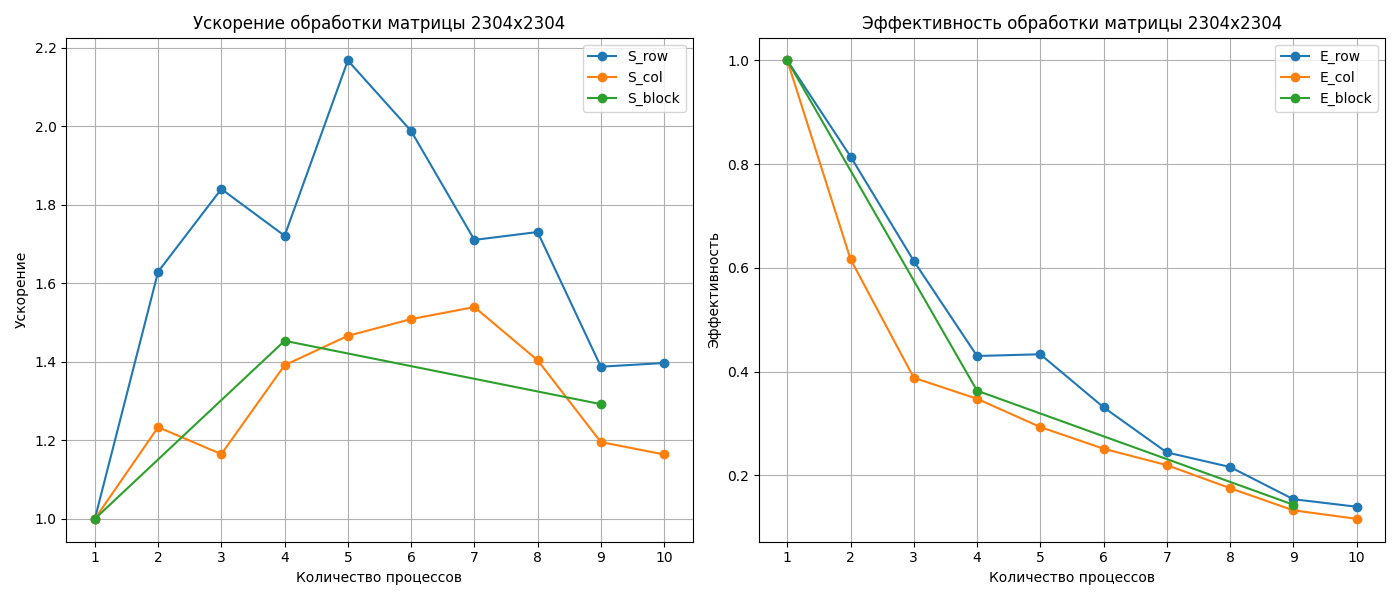
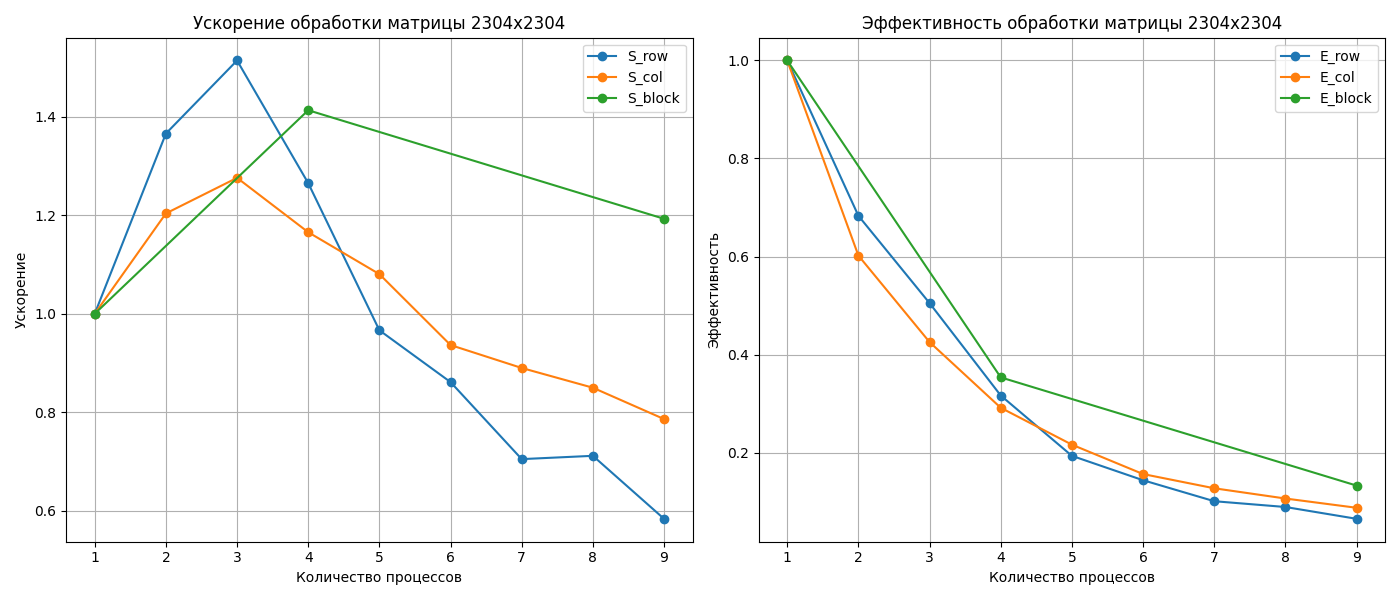
final benchmarks for report

diff --git a/utils/matmul_split_metrics.py b/utils/matmul_split_metrics.py
@@ -9,9 +9,8 @@ ROOT_DIR = os.path.abspath('.')
 
 def run_mpi_program(num_processes, matrix_size, num_runs=100):
     result = {"row_split": [], "col_split": [], "block_split": []}
-    
     try:
-        for _ in tqdm.trange(num_runs):
+        for _ in tqdm.trange(num_runs, desc=f'[Size={matrix_size} | Process={num_processes}]'):
             for prog_name in ["matmul_row.o", "matmul_col.o", "matmul_chess.o"]:
                 if prog_name == 'matmul_chess.o' and num_processes not in (1, 4, 9):
                     continue
@@ -67,7 +66,7 @@ def plot_matrix_performance(data, save_path):
         e_col_list.append(E_col)
 
         S_block, E_block = sublist[4]
-        if S_block != 0 and E_block != 0:
+        if S_block != '-' and E_block != '-':
             s_block_list.append(S_block)
             e_block_list.append(E_block)
     
@@ -97,8 +96,8 @@ def plot_matrix_performance(data, save_path):
 
 def main() -> None:
     matrix_sizes = [576, 2304, 3636]
-    num_processes = list(range(1, 10+1))
-    NUM_RUNS = 2
+    num_processes = list(range(1, 10))
+    NUM_RUNS = 100
 
     os.makedirs(f'{ROOT_DIR}/src/task1/task_1_benchmark', exist_ok=True)
     for size in matrix_sizes:
@@ -131,6 +130,9 @@ def main() -> None:
                 S_col, E_col = get_S_E(avg_time_col_1, result['col_split'], processes)
                 S_block, E_block = get_S_E(avg_time_block_1, result['block_split'], processes)
             
+            S_block = '-' if S_block == 0 else S_block
+            E_block = '-' if E_block == 0 else E_block
+
             data.append([size, processes, (S_row, E_row), (S_col, E_col), (S_block, E_block)])
 
             table.add_row([

diff --git a/src/task1/report_task_1.md b/src/task1/report_task_1.md
@@ -19,7 +19,7 @@
 
 Количество процессов:
 
-- (1-10): для строкового и столбцового разбиения
+- (1-9): для строкового и столбцового разбиения
 - (1, 4, 9): для блочного разбиения
 
 ## Основные метрики параллельной реализации
@@ -44,9 +44,15 @@
 
 |  Размер матрицы **A**  |  Количество процессов **P**  |  Разбиение по строкам (S, E)  |  Разбиение по столбцам (S, E)  |  Разбиение на блоки (S, E)  |
 | :---: | :---: | :---: | :---: | :---: |
-|  576x576  |  1  |  ('-', '-')  |  ('-', '-')  |  ('-', '-')  |
-|  576x576  |  4  |  (1.3719, 0.343)  |  (0.0728, 0.0182)  |  (0.3145, 0.0786)  |
-|  576x576  |  9  |  (0.0236, 0.0026)  |  (0.0255, 0.0028)  |  (0.104, 0.0116)  |
+|  576x576  |  1  |  (1, 1)  |  (1, 1)  |  (1, 1)  |
+|  576x576  |  2  |  (0.2438, 0.1219)  |  (0.2699, 0.1349)  |  ('-', '-')  |
+|  576x576  |  3  |  (0.0978, 0.0326)  |  (0.1018, 0.0339)  |  ('-', '-')  |
+|  576x576  |  4  |  (0.0625, 0.0156)  |  (0.0644, 0.0161)  |  (0.1468, 0.0367)  |
+|  576x576  |  5  |  (0.0462, 0.0092)  |  (0.0466, 0.0093)  |  ('-', '-')  |
+|  576x576  |  6  |  (0.0388, 0.0065)  |  (0.0453, 0.0076)  |  ('-', '-')  |
+|  576x576  |  7  |  (0.0322, 0.0046)  |  (0.0333, 0.0048)  |  ('-', '-')  |
+|  576x576  |  8  |  (0.0327, 0.0041)  |  (0.0325, 0.0041)  |  ('-', '-')  |
+|  576x576  |  9  |  (0.0295, 0.0033)  |  (0.0374, 0.0042)  |  (0.072, 0.008)  |
 
 ![](task_1_benchmark/size=576/plot.png)
 
@@ -54,9 +60,15 @@
 
 |  Размер матрицы **A**  |  Количество процессов **P**  |  Разбиение по строкам (S, E)  |  Разбиение по столбцам (S, E)  |  Разбиение на блоки (S, E)  |
 | :---: | :---: | :---: | :---: | :---: |
-|  2304x2304  |  1  |  ('-', '-')  |  ('-', '-')  |  ('-', '-')  |
-|  2304x2304  |  4  |  (1.5672, 0.3918)  |  (0.8822, 0.2205)  |  (1.5056, 0.3764)  |
-|  2304x2304  |  9  |  (1.3228, 0.147)  |  (1.4149, 0.1572)  |  (0.7033, 0.0781)  |
+|  2304x2304  |  1  |  (1, 1)  |  (1, 1)  |  (1, 1)  |
+|  2304x2304  |  2  |  (1.3662, 0.6831)  |  (1.2039, 0.6019)  |  ('-', '-')  |
+|  2304x2304  |  3  |  (1.5147, 0.5049)  |  (1.2762, 0.4254)  |  ('-', '-')  |
+|  2304x2304  |  4  |  (1.2654, 0.3164)  |  (1.1657, 0.2914)  |  (1.4136, 0.3534)  |
+|  2304x2304  |  5  |  (0.9664, 0.1933)  |  (1.0805, 0.2161)  |  ('-', '-')  |
+|  2304x2304  |  6  |  (0.8611, 0.1435)  |  (0.9364, 0.1561)  |  ('-', '-')  |
+|  2304x2304  |  7  |  (0.7046, 0.1007)  |  (0.8898, 0.1271)  |  ('-', '-')  |
+|  2304x2304  |  8  |  (0.7113, 0.0889)  |  (0.8497, 0.1062)  |  ('-', '-')  |
+|  2304x2304  |  9  |  (0.5833, 0.0648)  |  (0.786, 0.0873)  |  (1.193, 0.1326)  |
 
 ![](task_1_benchmark/size=2304/plot.png)
 
@@ -64,9 +76,15 @@
 
 |  Размер матрицы **A**  |  Количество процессов **P**  |  Разбиение по строкам (S, E)  |  Разбиение по столбцам (S, E)  |  Разбиение на блоки (S, E)  |
 | :---: | :---: | :---: | :---: | :---: |
-|  3636x3636  |  1  |  ('-', '-')  |  ('-', '-')  |  ('-', '-')  |
-|  3636x3636  |  4  |  (2.6585, 0.6646)  |  (1.2394, 0.3099)  |  (2.215, 0.5537)  |
-|  3636x3636  |  9  |  (1.57, 0.1744)  |  (1.2008, 0.1334)  |  (1.3362, 0.1485)  |
+|  3636x3636  |  1  |  (1, 1)  |  (1, 1)  |  (1, 1)  |
+|  3636x3636  |  2  |  (1.4616, 0.7308)  |  (1.1206, 0.5603)  |  ('-', '-')  |
+|  3636x3636  |  3  |  (1.6704, 0.5568)  |  (1.1717, 0.3906)  |  ('-', '-')  |
+|  3636x3636  |  4  |  (1.8061, 0.4515)  |  (1.2383, 0.3096)  |  (1.4637, 0.3659)  |
+|  3636x3636  |  5  |  (1.8504, 0.3701)  |  (1.2639, 0.2528)  |  ('-', '-')  |
+|  3636x3636  |  6  |  (1.7354, 0.2892)  |  (1.2272, 0.2045)  |  ('-', '-')  |
+|  3636x3636  |  7  |  (1.6353, 0.2336)  |  (1.2193, 0.1742)  |  ('-', '-')  |
+|  3636x3636  |  8  |  (1.5884, 0.1986)  |  (1.2295, 0.1537)  |  ('-', '-')  |
+|  3636x3636  |  9  |  (1.4203, 0.1578)  |  (1.2206, 0.1356)  |  (1.3292, 0.1477)  |
 
 ![](task_1_benchmark/size=3636/plot.png)
 

diff --git a/src/task1/task_1_benchmark/size=2304/table.md b/src/task1/task_1_benchmark/size=2304/table.md
@@ -1,12 +1,11 @@
 |  Размер матрицы **A**  |  Количество процессов **P**  |  Разбиение по строкам (S, E)  |  Разбиение по столбцам (S, E)  |  Разбиение на блоки (S, E)  |
 | :---: | :---: | :---: | :---: | :---: |
 |  2304x2304  |  1  |  (1, 1)  |  (1, 1)  |  (1, 1)  |
-|  2304x2304  |  2  |  (1.6296, 0.8148)  |  (1.2335, 0.6168)  |  (0.0, 0.0)  |
-|  2304x2304  |  3  |  (1.8404, 0.6135)  |  (1.1648, 0.3883)  |  (0.0, 0.0)  |
-|  2304x2304  |  4  |  (1.7212, 0.4303)  |  (1.3914, 0.3478)  |  (1.4536, 0.3634)  |
-|  2304x2304  |  5  |  (2.1679, 0.4336)  |  (1.4663, 0.2933)  |  (0.0, 0.0)  |
-|  2304x2304  |  6  |  (1.9883, 0.3314)  |  (1.5089, 0.2515)  |  (0.0, 0.0)  |
-|  2304x2304  |  7  |  (1.7107, 0.2444)  |  (1.5396, 0.2199)  |  (0.0, 0.0)  |
-|  2304x2304  |  8  |  (1.7308, 0.2163)  |  (1.404, 0.1755)  |  (0.0, 0.0)  |
-|  2304x2304  |  9  |  (1.3876, 0.1542)  |  (1.1956, 0.1328)  |  (1.2922, 0.1436)  |
-|  2304x2304  |  10  |  (1.397, 0.1397)  |  (1.1639, 0.1164)  |  (0.0, 0.0)  |
+|  2304x2304  |  2  |  (1.3662, 0.6831)  |  (1.2039, 0.6019)  |  ('-', '-')  |
+|  2304x2304  |  3  |  (1.5147, 0.5049)  |  (1.2762, 0.4254)  |  ('-', '-')  |
+|  2304x2304  |  4  |  (1.2654, 0.3164)  |  (1.1657, 0.2914)  |  (1.4136, 0.3534)  |
+|  2304x2304  |  5  |  (0.9664, 0.1933)  |  (1.0805, 0.2161)  |  ('-', '-')  |
+|  2304x2304  |  6  |  (0.8611, 0.1435)  |  (0.9364, 0.1561)  |  ('-', '-')  |
+|  2304x2304  |  7  |  (0.7046, 0.1007)  |  (0.8898, 0.1271)  |  ('-', '-')  |
+|  2304x2304  |  8  |  (0.7113, 0.0889)  |  (0.8497, 0.1062)  |  ('-', '-')  |
+|  2304x2304  |  9  |  (0.5833, 0.0648)  |  (0.786, 0.0873)  |  (1.193, 0.1326)  |

diff --git a/src/task1/task_1_benchmark/size=3636/table.md b/src/task1/task_1_benchmark/size=3636/table.md
@@ -1,12 +1,11 @@
 |  Размер матрицы **A**  |  Количество процессов **P**  |  Разбиение по строкам (S, E)  |  Разбиение по столбцам (S, E)  |  Разбиение на блоки (S, E)  |
 | :---: | :---: | :---: | :---: | :---: |
 |  3636x3636  |  1  |  (1, 1)  |  (1, 1)  |  (1, 1)  |
-|  3636x3636  |  2  |  (1.5169, 0.7584)  |  (1.0836, 0.5418)  |  (0.0, 0.0)  |
-|  3636x3636  |  3  |  (1.7548, 0.5849)  |  (1.0543, 0.3514)  |  (0.0, 0.0)  |
-|  3636x3636  |  4  |  (1.6092, 0.4023)  |  (1.1824, 0.2956)  |  (1.3677, 0.3419)  |
-|  3636x3636  |  5  |  (2.3921, 0.4784)  |  (1.1618, 0.2324)  |  (0.0, 0.0)  |
-|  3636x3636  |  6  |  (2.0319, 0.3386)  |  (1.2211, 0.2035)  |  (0.0, 0.0)  |
-|  3636x3636  |  7  |  (1.7594, 0.2513)  |  (1.0365, 0.1481)  |  (0.0, 0.0)  |
-|  3636x3636  |  8  |  (1.89, 0.2362)  |  (1.1166, 0.1396)  |  (0.0, 0.0)  |
-|  3636x3636  |  9  |  (1.6115, 0.1791)  |  (1.1891, 0.1321)  |  (1.1869, 0.1319)  |
-|  3636x3636  |  10  |  (1.5797, 0.158)  |  (0.0, 0.0)  |  (0.0, 0.0)  |
+|  3636x3636  |  2  |  (1.4616, 0.7308)  |  (1.1206, 0.5603)  |  ('-', '-')  |
+|  3636x3636  |  3  |  (1.6704, 0.5568)  |  (1.1717, 0.3906)  |  ('-', '-')  |
+|  3636x3636  |  4  |  (1.8061, 0.4515)  |  (1.2383, 0.3096)  |  (1.4637, 0.3659)  |
+|  3636x3636  |  5  |  (1.8504, 0.3701)  |  (1.2639, 0.2528)  |  ('-', '-')  |
+|  3636x3636  |  6  |  (1.7354, 0.2892)  |  (1.2272, 0.2045)  |  ('-', '-')  |
+|  3636x3636  |  7  |  (1.6353, 0.2336)  |  (1.2193, 0.1742)  |  ('-', '-')  |
+|  3636x3636  |  8  |  (1.5884, 0.1986)  |  (1.2295, 0.1537)  |  ('-', '-')  |
+|  3636x3636  |  9  |  (1.4203, 0.1578)  |  (1.2206, 0.1356)  |  (1.3292, 0.1477)  |

diff --git a/src/task1/task_1_benchmark/size=576/table.md b/src/task1/task_1_benchmark/size=576/table.md
@@ -1,12 +1,11 @@
 |  Размер матрицы **A**  |  Количество процессов **P**  |  Разбиение по строкам (S, E)  |  Разбиение по столбцам (S, E)  |  Разбиение на блоки (S, E)  |
 | :---: | :---: | :---: | :---: | :---: |
 |  576x576  |  1  |  (1, 1)  |  (1, 1)  |  (1, 1)  |
-|  576x576  |  2  |  (1.4842, 0.7421)  |  (0.5572, 0.2786)  |  (0.0, 0.0)  |
-|  576x576  |  3  |  (1.6002, 0.5334)  |  (0.2313, 0.0771)  |  (0.0, 0.0)  |
-|  576x576  |  4  |  (0.2152, 0.0538)  |  (0.4471, 0.1118)  |  (1.4551, 0.3638)  |
-|  576x576  |  5  |  (0.3026, 0.0605)  |  (0.9386, 0.1877)  |  (0.0, 0.0)  |
-|  576x576  |  6  |  (0.4719, 0.0786)  |  (0.2526, 0.0421)  |  (0.0, 0.0)  |
-|  576x576  |  7  |  (0.2717, 0.0388)  |  (1.5102, 0.2157)  |  (0.0, 0.0)  |
-|  576x576  |  8  |  (1.2427, 0.1553)  |  (1.4207, 0.1776)  |  (0.0, 0.0)  |
-|  576x576  |  9  |  (1.1925, 0.1325)  |  (1.339, 0.1488)  |  (1.2304, 0.1367)  |
-|  576x576  |  10  |  (0.3138, 0.0314)  |  (1.2662, 0.1266)  |  (0.0, 0.0)  |
+|  576x576  |  2  |  (0.2438, 0.1219)  |  (0.2699, 0.1349)  |  ('-', '-')  |
+|  576x576  |  3  |  (0.0978, 0.0326)  |  (0.1018, 0.0339)  |  ('-', '-')  |
+|  576x576  |  4  |  (0.0625, 0.0156)  |  (0.0644, 0.0161)  |  (0.1468, 0.0367)  |
+|  576x576  |  5  |  (0.0462, 0.0092)  |  (0.0466, 0.0093)  |  ('-', '-')  |
+|  576x576  |  6  |  (0.0388, 0.0065)  |  (0.0453, 0.0076)  |  ('-', '-')  |
+|  576x576  |  7  |  (0.0322, 0.0046)  |  (0.0333, 0.0048)  |  ('-', '-')  |
+|  576x576  |  8  |  (0.0327, 0.0041)  |  (0.0325, 0.0041)  |  ('-', '-')  |
+|  576x576  |  9  |  (0.0295, 0.0033)  |  (0.0374, 0.0042)  |  (0.072, 0.008)  |
